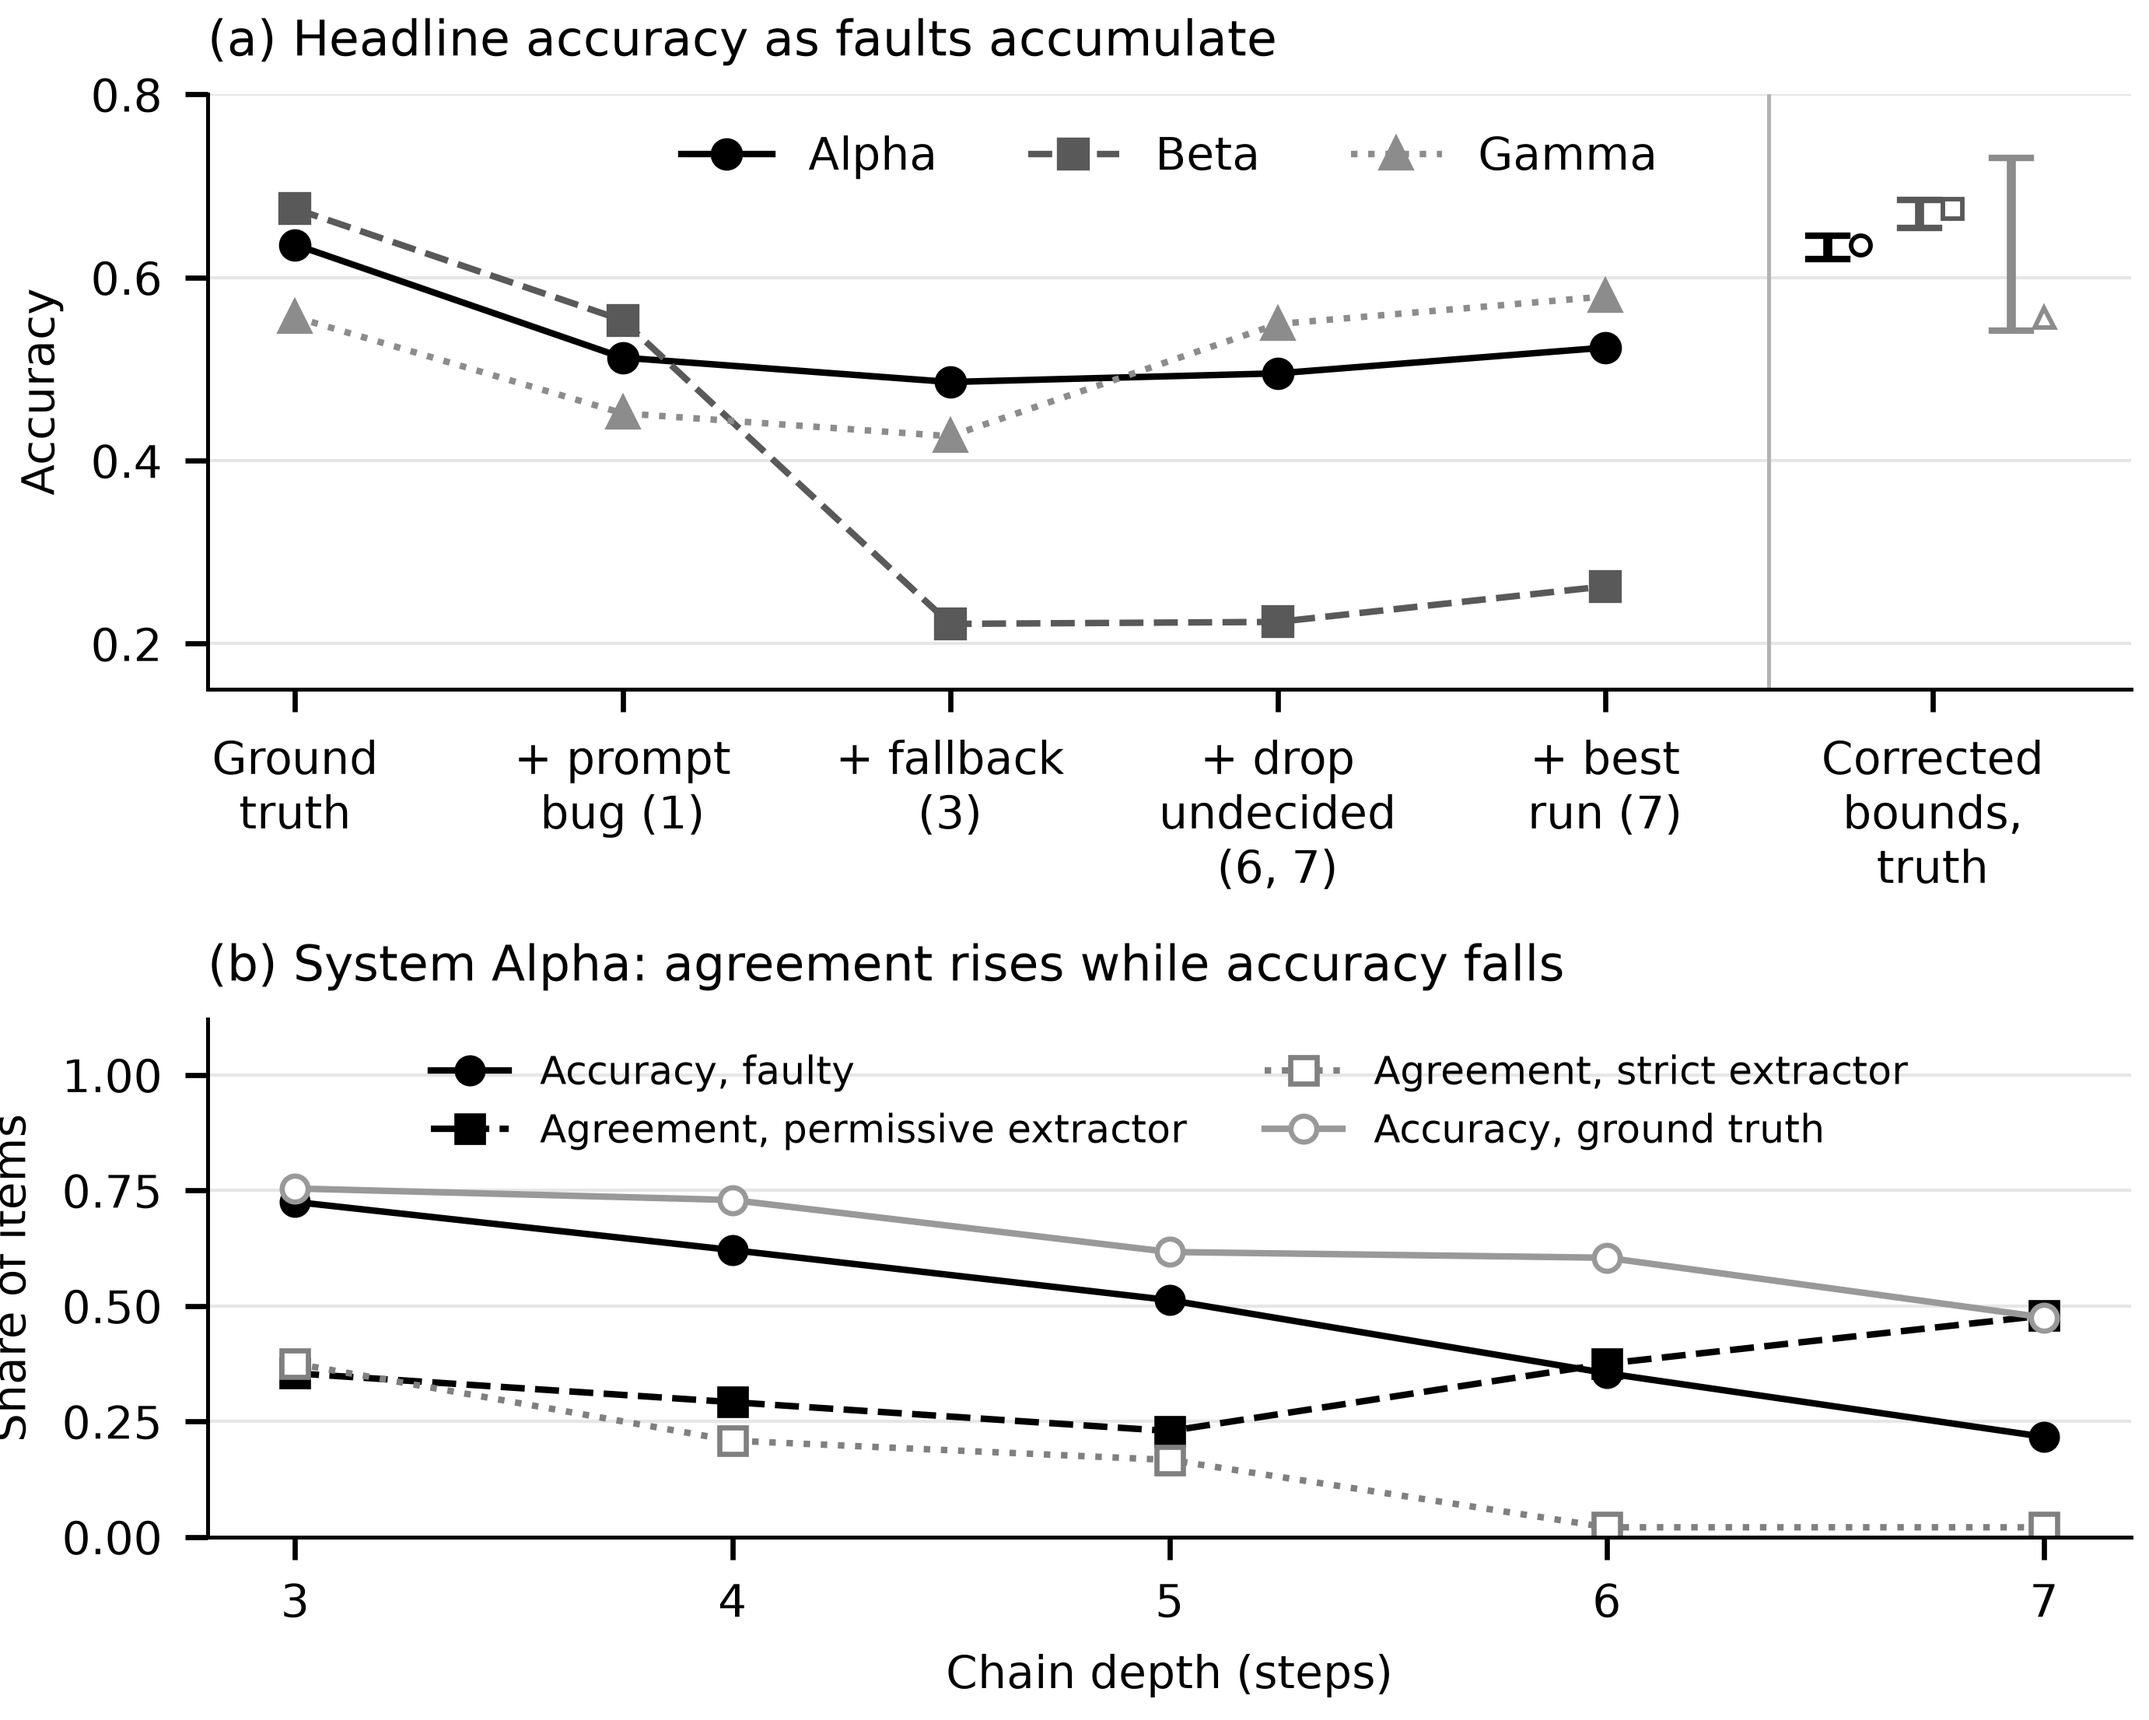
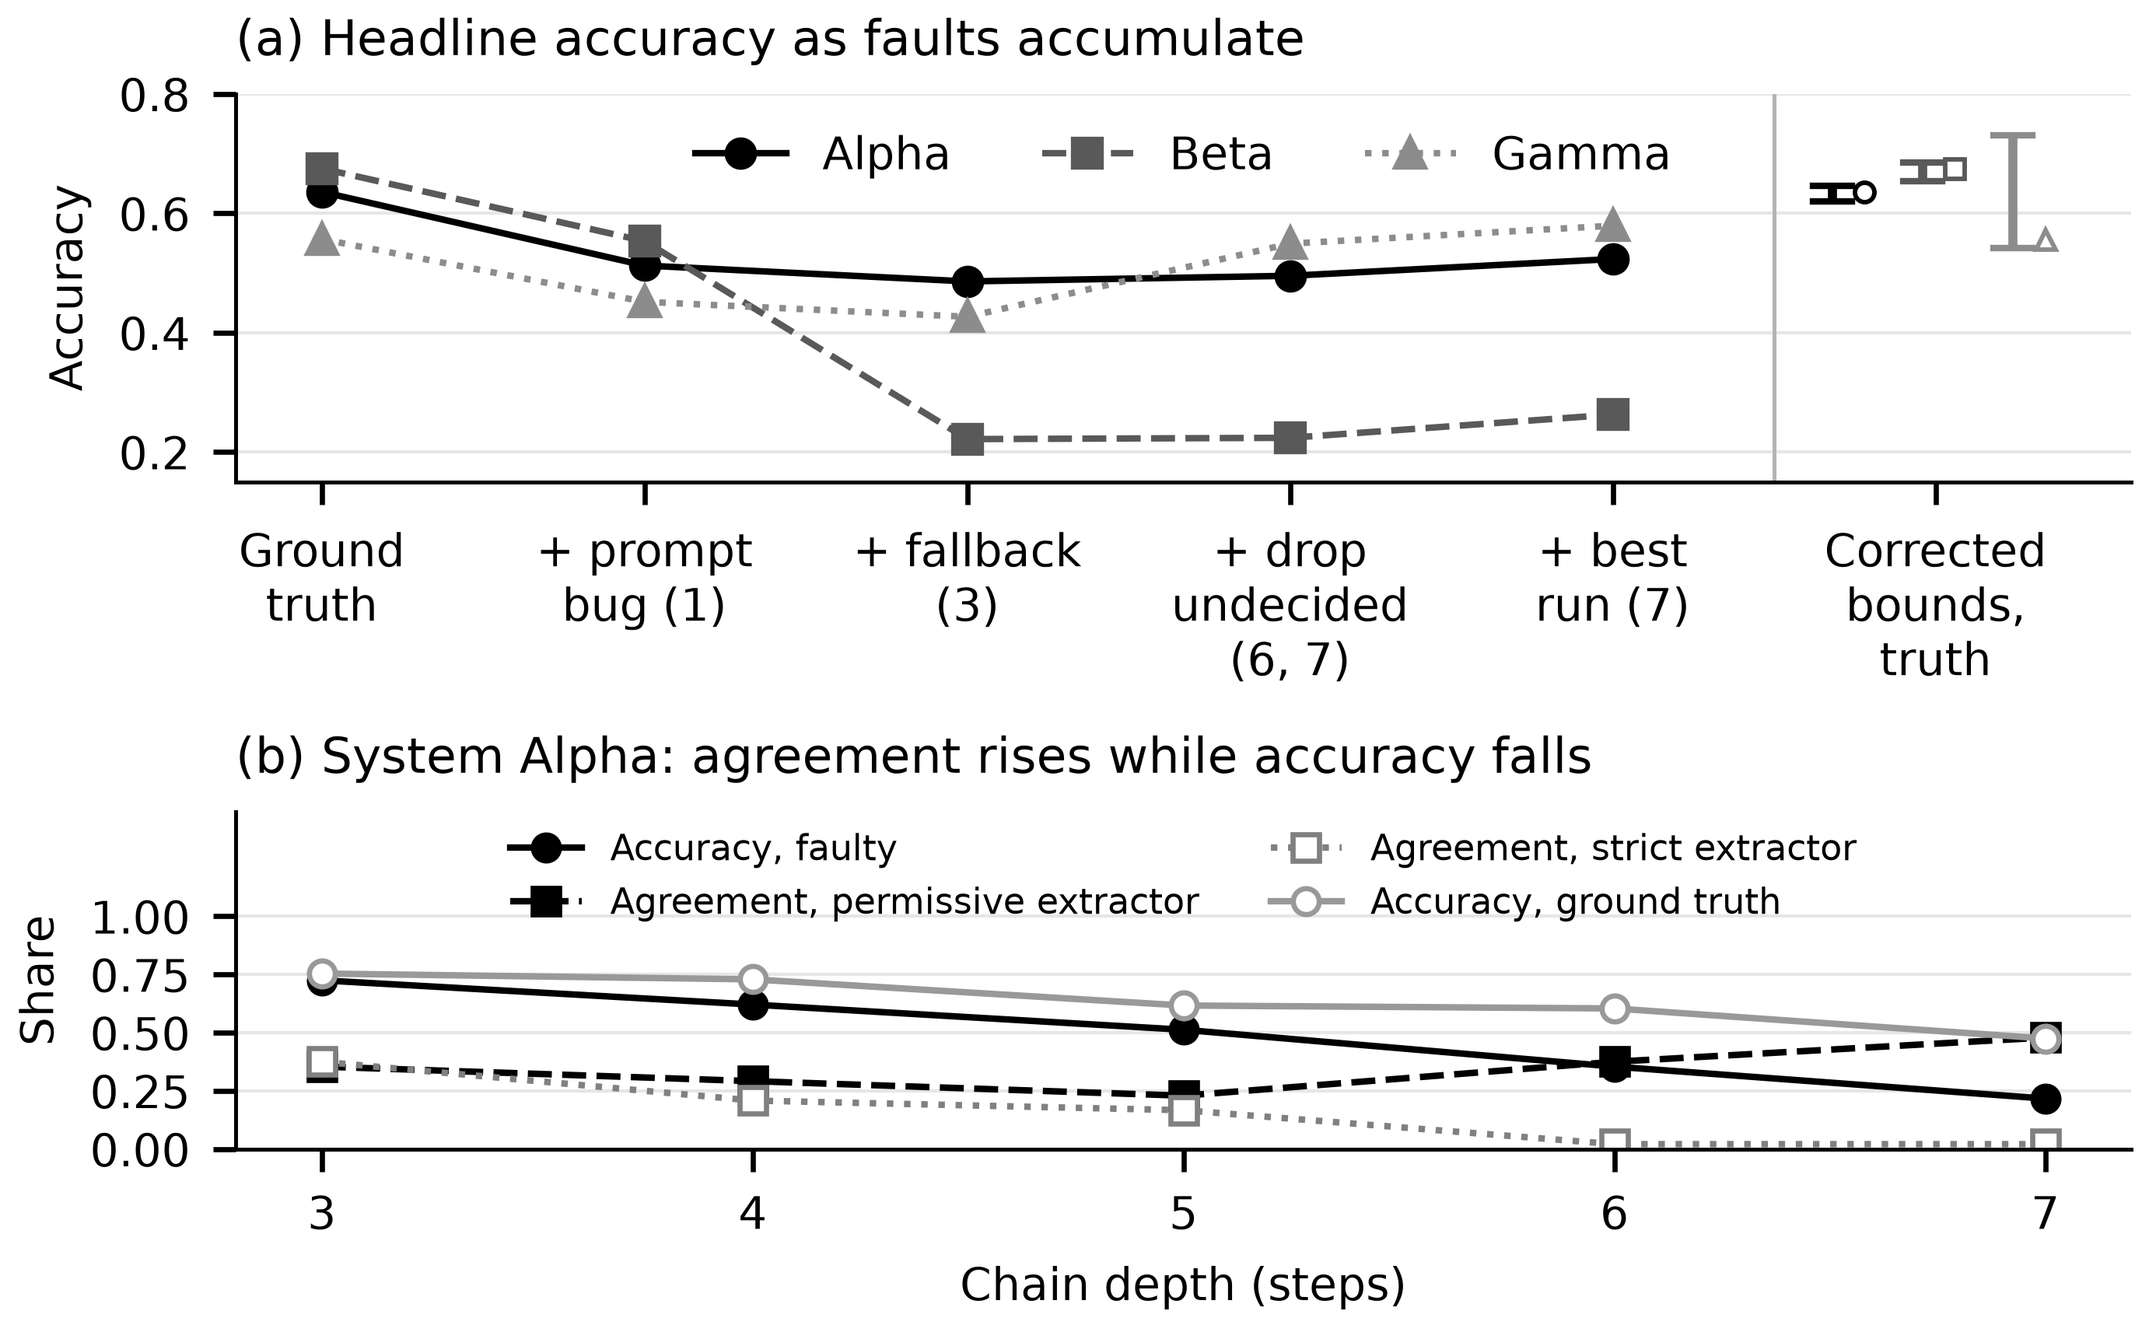
Shorten the propagation figure and relabel panel b
Version 1.0.1. Numbers and checks are unchanged.

diff --git a/pipeline_example/figure.py b/pipeline_example/figure.py
@@ -25,7 +25,7 @@ def draw(res, path):
     plt.rcParams.update({"font.size": 7, "font.family": "DejaVu Sans",
                          "axes.linewidth": 0.6, "svg.hashsalt": "fixed"})
     width_in = WIDTH_MM / 25.4
-    fig, (ax1, ax2) = plt.subplots(2, 1, figsize=(width_in, width_in * 0.8),
+    fig, (ax1, ax2) = plt.subplots(2, 1, figsize=(width_in, width_in * 0.62),
                                    gridspec_kw={"height_ratios": [1.15, 1]})
     xs = list(range(len(STAGE_KEYS)))
     counts = res["checks"]["item14"]["counts"]
@@ -65,11 +65,12 @@ def draw(res, path):
                  color=color, lw=1.0, ms=4, mfc=mfc, mew=0.8, label=label)
     ax2.set_xticks(depths)
     ax2.set_xlabel("Chain depth (steps)")
-    ax2.set_ylabel("Share of items")
-    ax2.set_ylim(0, 1.12)
+    ax2.set_ylabel("Share")
+    ax2.set_ylim(0, 1.45)
+    ax2.set_yticks([0, 0.25, 0.5, 0.75, 1.0])
     ax2.set_title("(b) System Alpha: agreement rises while accuracy falls",
                   loc="left", fontsize=7.5)
-    ax2.legend(frameon=False, fontsize=6, loc="upper center", ncol=2)
+    ax2.legend(frameon=False, fontsize=5.5, loc="upper center", ncol=2, borderaxespad=0.2)
     ax2.grid(axis="y", color="0.9", lw=0.5)
     for ax in (ax1, ax2):
         ax.spines["top"].set_visible(False)

diff --git a/tests/test_reproducible.py b/tests/test_reproducible.py
@@ -172,7 +172,7 @@ class ReproducibleTest(unittest.TestCase):
             self.assertLessEqual(truth, counts[name]["upper"])
 
     def test_version(self):
-        self.assertEqual(__version__, "1.0.0")
+        self.assertEqual(__version__, "1.0.1")
         self.assertEqual(read(os.path.join(ROOT, "VERSION")).strip(), __version__)
         self.assertIn(f"version: {__version__}",
                       read(os.path.join(ROOT, "CITATION.cff")))

diff --git a/pipeline_example/__init__.py b/pipeline_example/__init__.py
@@ -1,3 +1,3 @@
 """Worked example: how evaluation errors propagate through pipeline stages."""
 
-__version__ = "1.0.0"
+__version__ = "1.0.1"

diff --git a/README.md b/README.md
@@ -1,6 +1,6 @@
 # Worked example: how evaluation errors propagate and how the checks detect them
 
-Version 1.0.0. Supplementary material for the chapter "Validity and
+Version 1.0.1. Supplementary material for the chapter "Validity and
 Reliability of Large Language Model and Agent Evaluation". The example
 simulates a small evaluation end to end, injects faults at several pipeline
 stages, shows how they change the headline numbers and the ranking of
@@ -242,7 +242,7 @@ end check.
 | `results/summary.json` | version, configuration, headline, stage and per run numbers |
 | `results/chapter_table.md` | Table 3 of the chapter |
 | `results/figure_propagation.png` | figure, 117 mm wide at 600 dpi |
-| `VERSION`, `CITATION.cff` | version 1.0.0 and citation metadata |
+| `VERSION`, `CITATION.cff` | version 1.0.1 and citation metadata |
 
 In `corrected_outcomes.csv` and the report, E counts grader errors that were
 rerun; errors that persist after the one rerun are included in U, so
